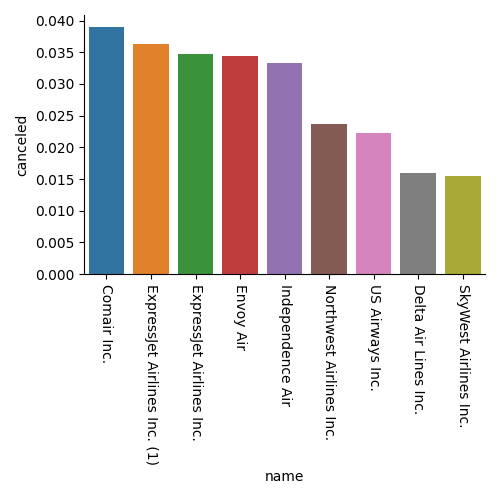
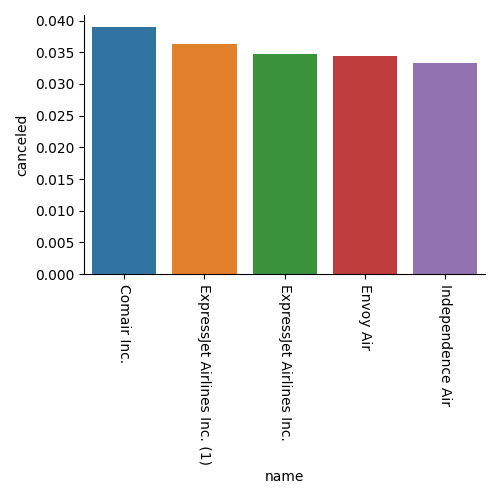
concise graphs

diff --git a/flight.py b/flight.py
@@ -3,12 +3,12 @@ import matplotlib.pyplot as plt
 import geopandas as gpd
 import pywebio
 import seaborn as sns
-import plotly.graph_objects as go
+# import plotly.graph_objects as go
 from pywebio.output import *
 from pywebio.input import *
-from PIL import Image
+# from PIL import Image
 from fpdf import FPDF
-from pywebio.session import run_js
+# from pywebio.session import run_js
 from sklearn.metrics import mean_squared_error
 from sklearn.tree import DecisionTreeRegressor
 from sklearn.model_selection import train_test_split
@@ -87,31 +87,30 @@ def plot_data_dest(data):
 
 # plot data for the 10 big carriers
 def plot_data_biggest_carrier(data):
-    data = data.sort_values(by='capacity', ascending=False)
-    data = data.head(10)
-    data['total_delay'] = data['arrival_delay'] + data['departure_delay']
-    sns.catplot(x='name', y='total_delay', data=data, kind='bar')
-    plt.xticks(rotation=-90)
+    data_big = data.sort_values(by='capacity', ascending=False)
+    data_big = data_big.head(5)
+    data_big = data_big.sort_values(by='arrival_delay', ascending=False)
+    sns.catplot(x='name', y='arrival_delay', data=data_big, kind='bar')
+    plt.xticks(rotation=45)
     plt.tight_layout()
-    plt.savefig('US_carrier_biggest.png')
+    plt.savefig('delay_10_biggest_carrier.png')
     print('image saved')
 
 
 # plot data for the 10 smallest carriers
 def plot_data_worst_carrier_delay(data):
-    data['total_delay'] = data['arrival_delay'] + data['departure_delay']
-    data = data.sort_values(by='total_delay', ascending=False)
-    data = data.head(10)
-    sns.catplot(x='name', y='total_delay', data=data, kind='bar')
-    plt.xticks(rotation=-90)
+    data_small = data.sort_values(by='arrival_delay', ascending=False)
+    data_small = data_small.head(5)
+    sns.catplot(x='name', y='arrival_delay', data=data_small, kind='bar')
+    plt.xticks(rotation=45)
     plt.tight_layout()
-    plt.savefig('US_carrier_worst_delay.png')
+    plt.savefig('worst_delay_carrier.png')
 
 
 # plot data for 10 carriers with the highest cancel rate
 def plot_data_worst_carrier_cancel(data):
     data = data.sort_values(by='canceled', ascending=False)
-    data = data.head(9)
+    data = data.head(5)
     sns.catplot(x='name', y='canceled', data=data, kind='bar')
     plt.xticks(rotation=-90)
     plt.tight_layout()
@@ -119,72 +118,72 @@ def plot_data_worst_carrier_cancel(data):
 
 
 # group by carriers, plot the relationship between price and delay
-def plot_data_price_delay_carriers(data):
-    data = data.sort_values(by='price', ascending=True)
-    data['total_delay'] = data['arrival_delay'] + data['departure_delay']
-    data = data.head(100)
-    sns.relplot(x='price', y='total_delay', data=data)
-    #plt.figure(figsize=(20,10))
-    plt.savefig('US_price_delay_carriers.png')
-    sns.regplot(x='price', y='total_delay', data=data)
-    plt.savefig('US_price_delay_carriers_reg.png')
+# def plot_data_price_delay_carriers(data):
+#     data = data.sort_values(by='price', ascending=True)
+#     data['total_delay'] = data['arrival_delay'] + data['departure_delay']
+#     data = data.head(100)
+#     sns.relplot(x='price', y='total_delay', data=data)
+#     #plt.figure(figsize=(20,10))
+#     plt.savefig('US_price_delay_carriers.png')
+#     sns.regplot(x='price', y='total_delay', data=data)
+#     plt.savefig('US_price_delay_carriers_reg.png')
 
 
 # group by origin state, plot the relationship between price and delay
-def plot_data_price_delay_origin(data):
-    data = data.sort_values(by='price', ascending=True)
-    data['total_delay'] = data['arrival_delay'] + data['departure_delay']
-    data = data.head(100)
-    sns.relplot(x='price', y='total_delay', data=data)
-    # plt.figure(figsize=(20,10))
-    plt.savefig('US_price_delay_origin.png')
-    sns.regplot(x='price', y='total_delay', data=data)
-    # plt.figure(figsize=(20,10))
-    plt.savefig('US_price_delay_origin_reg.png')
-
-
-# group by destination state, plot the relationship between price and delay
-def plot_data_price_delay_dest(data):
-    data = data.sort_values(by='price', ascending=True)
-    data['total_delay'] = data['arrival_delay'] + data['departure_delay']
-    data = data.head(100)
-    sns.relplot(x='price', y='total_delay', data=data)
-    # plt.figure(figsize=(20,10))
-    plt.savefig('US_price_delay_dest.png')
-    sns.regplot(x='price', y='total_delay', data=data)
-    # plt.figure(figsize=(20,10))
-    plt.savefig('US_price_cancel_dest_reg.png')
+# def plot_data_price_delay_origin(data):
+#     data = data.sort_values(by='price', ascending=True)
+#     data['total_delay'] = data['arrival_delay'] + data['departure_delay']
+#     data = data.head(100)
+#     sns.relplot(x='price', y='total_delay', data=data)
+#     # plt.figure(figsize=(20,10))
+#     plt.savefig('US_price_delay_origin.png')
+#     sns.regplot(x='price', y='total_delay', data=data)
+#     # plt.figure(figsize=(20,10))
+#     plt.savefig('US_price_delay_origin_reg.png')
+#
+#
+# # group by destination state, plot the relationship between price and delay
+# def plot_data_price_delay_dest(data):
+#     data = data.sort_values(by='price', ascending=True)
+#     data['total_delay'] = data['arrival_delay'] + data['departure_delay']
+#     data = data.head(100)
+#     sns.relplot(x='price', y='total_delay', data=data)
+#     # plt.figure(figsize=(20,10))
+#     plt.savefig('US_price_delay_dest.png')
+#     sns.regplot(x='price', y='total_delay', data=data)
+#     # plt.figure(figsize=(20,10))
+#     plt.savefig('US_price_cancel_dest_reg.png')
 
 
 # group by carriers, plot the relationship between price and cancel rate
-def plot_data_price_cancel_carriers(data):
-    data = data.sort_values(by='price', ascending=True)
-    sns.relplot(x='price', y='canceled', data=data)
-    #plt.figure(figsize=(20,10))
-    plt.savefig('US_price_cancel_carriers.png')
-    sns.regplot(x='price', y='canceled', data=data)
-    plt.savefig('US_price_cancel_carriers_reg.png')
-
-
-# group by origin state, plot the relationship between price and cancel rate
-def plot_data_price_cancel_origin(data):
-    data = data.sort_values(by='price', ascending=True)
-    sns.relplot(x='price', y='canceled', data=data,)
-    plt.savefig('US_price_cancel_origin.png')
-    sns.regplot(x='price', y='canceled', data=data)
-    # plt.figure(figsize=(20,10))
-    plt.savefig('US_price_cancel_origin_reg.png')
-
-
-# group by destination state, plot the relationship between price and cancel rate
-def plot_data_price_cancel_dest(data):
-    data = data.sort_values(by='price', ascending=True)
-    sns.relplot(x='price', y='canceled', data=data)
-    # plt.figure(figsize=(20,10))
-    plt.savefig('US_price_cancel_dest.png')
-    sns.regplot(x='price', y='canceled', data=data)
-    # plt.figure(figsize=(20,10))
-    plt.savefig('US_price_cancel_dest_reg.png')
+# def plot_data_price_cancel_carriers(data):
+#     data = data.sort_values(by='price', ascending=True)
+#     sns.relplot(x='price', y='canceled', data=data)
+#     #plt.figure(figsize=(20,10))
+#     plt.savefig('US_price_cancel_carriers.png')
+#     sns.regplot(x='price', y='canceled', data=data)
+#     plt.savefig('US_price_cancel_carriers_reg.png')
+#
+#
+# # group by origin state, plot the relationship between price and cancel rate
+# def plot_data_price_cancel_origin(data):
+#     data = data.sort_values(by='price', ascending=True)
+#     sns.relplot(x='price', y='canceled', data=data,)
+#     plt.savefig('US_price_cancel_origin.png')
+#     sns.regplot(x='price', y='canceled', data=data)
+#     # plt.figure(figsize=(20,10))
+#     plt.savefig('US_price_cancel_origin_reg.png')
+#
+#
+# # group by destination state, plot the relationship between price and cancel rate
+# def plot_data_price_cancel_dest(data):
+#     data = data.sort_values(by='price', ascending=True)
+#     sns.relplot(x='price', y='canceled', data=data)
+#     # plt.figure(figsize=(20,10))
+#     plt.savefig('US_price_cancel_dest.png')
+#     sns.regplot(x='price', y='canceled', data=data)
+#     # plt.figure(figsize=(20,10))
+#     plt.savefig('US_price_cancel_dest_reg.png')
 
 
 # save two figs, one is relationship between price and delay for a route
@@ -206,19 +205,19 @@ def plot_data_one_route(data, origin, dest):
 
 
 # plot 10 best and worst routes in the US based on delay
-def plot_data_route(data):
-    data['total_delay'] = data['arrival_delay'] + data['departure_delay']
-    data = data.sort_values(by='total_delay', ascending=True)
-    data_asc = data.head(10)
-    print(data_asc)
-    data = data.sort_values(by='total_delay', ascending=False)
-    data_des = data.head(10)
-    print(data_des)
-    fig, ax = plt.subplots(1, figsize=(25.6, 14.4))
-    data.plot(ax=ax, color='#EEEEEE', edgecolor='#AAAAAA')
-    data_asc.plot(ax=ax, column='total_delay', legend=True, vmin=-50, vmax=520)
-    data_des.plot(ax=ax, column='total_delay', vmin=-50, vmax=520)
-    plt.savefig('US_best_and_worst_delay_route.png')
+# def plot_data_route(data):
+#     data['total_delay'] = data['arrival_delay'] + data['departure_delay']
+#     data = data.sort_values(by='total_delay', ascending=True)
+#     data_asc = data.head(10)
+#     print(data_asc)
+#     data = data.sort_values(by='total_delay', ascending=False)
+#     data_des = data.head(10)
+#     print(data_des)
+#     fig, ax = plt.subplots(1, figsize=(25.6, 14.4))
+#     data.plot(ax=ax, color='#EEEEEE', edgecolor='#AAAAAA')
+#     data_asc.plot(ax=ax, column='total_delay', legend=True, vmin=-50, vmax=520)
+#     data_des.plot(ax=ax, column='total_delay', vmin=-50, vmax=520)
+#     plt.savefig('US_best_and_worst_delay_route.png')
 
 
 def plot_distance_delay(data):
@@ -256,7 +255,7 @@ def fit_and_predict_delay(data):
     model.fit(features_train, labels_train)
     label_predictions_test = model.predict(features_test)
     result = mean_squared_error(labels_test, label_predictions_test)
-    print(result)
+    print("The mean squared error is" + result)
     return result
 
 
@@ -302,11 +301,11 @@ def main():
     # print(df0.columns)
     # print(df1.columns)
     # print(df2.columns)
-    # plot_data_origin(data_origin)
-    # plot_data_dest(data_dest)
-    # plot_data_biggest_carrier(data_carrier)
-    # plot_data_worst_carrier_delay(data_carrier)
-    # plot_data_worst_carrier_cancel(data_carrier)
+    plot_data_origin(data_origin)
+    plot_data_dest(data_dest)
+    plot_data_biggest_carrier(data_carrier)
+    plot_data_worst_carrier_delay(data_carrier)
+    plot_data_worst_carrier_cancel(data_carrier)
     # plot_data_price_delay_carriers(data_carrier)
     # plot_data_price_delay_origin(data_origin)
     # plot_data_price_delay_dest(data_dest)
@@ -315,8 +314,8 @@ def main():
     # plot_data_price_cancel_carriers(data_carrier)
     # plot_data_one_route(df1, 'Seattle WA', 'New York NY')
     # plot_data_route(data_route)
-    # fit_and_predict_delay(df1)
-    # make_pdf(data_dest)
+    fit_and_predict_delay(df1)
+    make_pdf(data_dest)
     make_web(df1, plot_data_one_route)
     #plot_data_route_best(data_route)
     #plot_data_route_worst(data_route)
